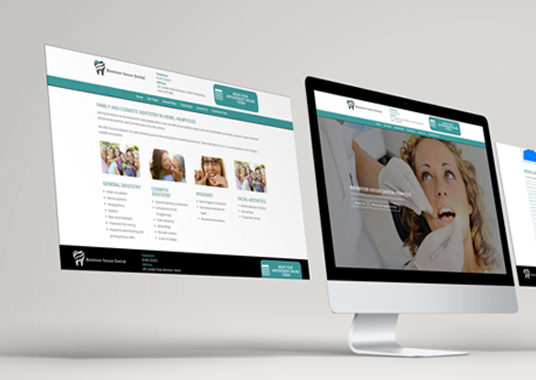
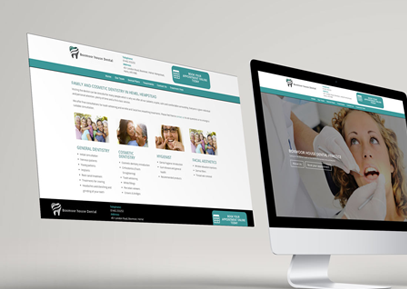
new

diff --git a/css/style.css b/css/style.css
@@ -464,11 +464,11 @@
       padding: 14% 0; 
     }
     .partner .content .title {      
-      background-image: -moz-linear-gradient(top, rgba(28, 182, 194, 0.9), rgba(35, 115, 174, 0.9), rgba(8, 35, 75, 0.86));
-      background-image: -webkit-linear-gradient(top, rgba(28, 182, 194, 0.9), rgba(35, 115, 174, 0.9), rgba(8, 35, 75, 0.86));
-      background-image: -ms-linear-gradient(top, rgba(28, 182, 194, 0.9), rgba(35, 115, 174, 0.9), rgba(8, 35, 75, 0.86));
-      background-image: -o-linear-gradient(top, rgba(28, 182, 194, 0.9), rgba(35, 115, 174, 0.9), rgba(8, 35, 75, 0.86));
-      background-image: linear-gradient(top, rgba(28, 182, 194, 0.9), rgba(35, 115, 174, 0.9), rgba(8, 35, 75, 0.86));
+      background-image: -moz-linear-gradient(top, rgba(28, 182, 194, 0.8), rgba(35, 115, 174, 0.5), rgba(8, 35, 75, 0.4));
+      background-image: -webkit-linear-gradient(top, rgba(28, 182, 194, 0.8), rgba(35, 115, 174, 0.5), rgba(8, 35, 75, 0.4));
+      background-image: -ms-linear-gradient(top, rgba(28, 182, 194, 0.8), rgba(35, 115, 174, 0.5), rgba(8, 35, 75, 0.4));
+      background-image: -o-linear-gradient(top, rgba(28, 182, 194, 0.8), rgba(35, 115, 174, 0.5), rgba(8, 35, 75, 0.4));
+      background-image: linear-gradient(top, rgba(28, 182, 194, 0.8), rgba(35, 115, 174, 0.5), rgba(8, 35, 75, 0.4));
       height: 100%;
       text-align: right;
       padding-right: 18%;
@@ -484,7 +484,7 @@
       width: 0;
       position: absolute;
       border-color: rgba(16, 112, 161, 0);
-      border-right-color: rgba(22, 160, 200, 0.9);
+      border-right-color: rgba(22, 160, 200, 0.4);
       border-width: 16px;
       margin-top: -20px;
     }  
